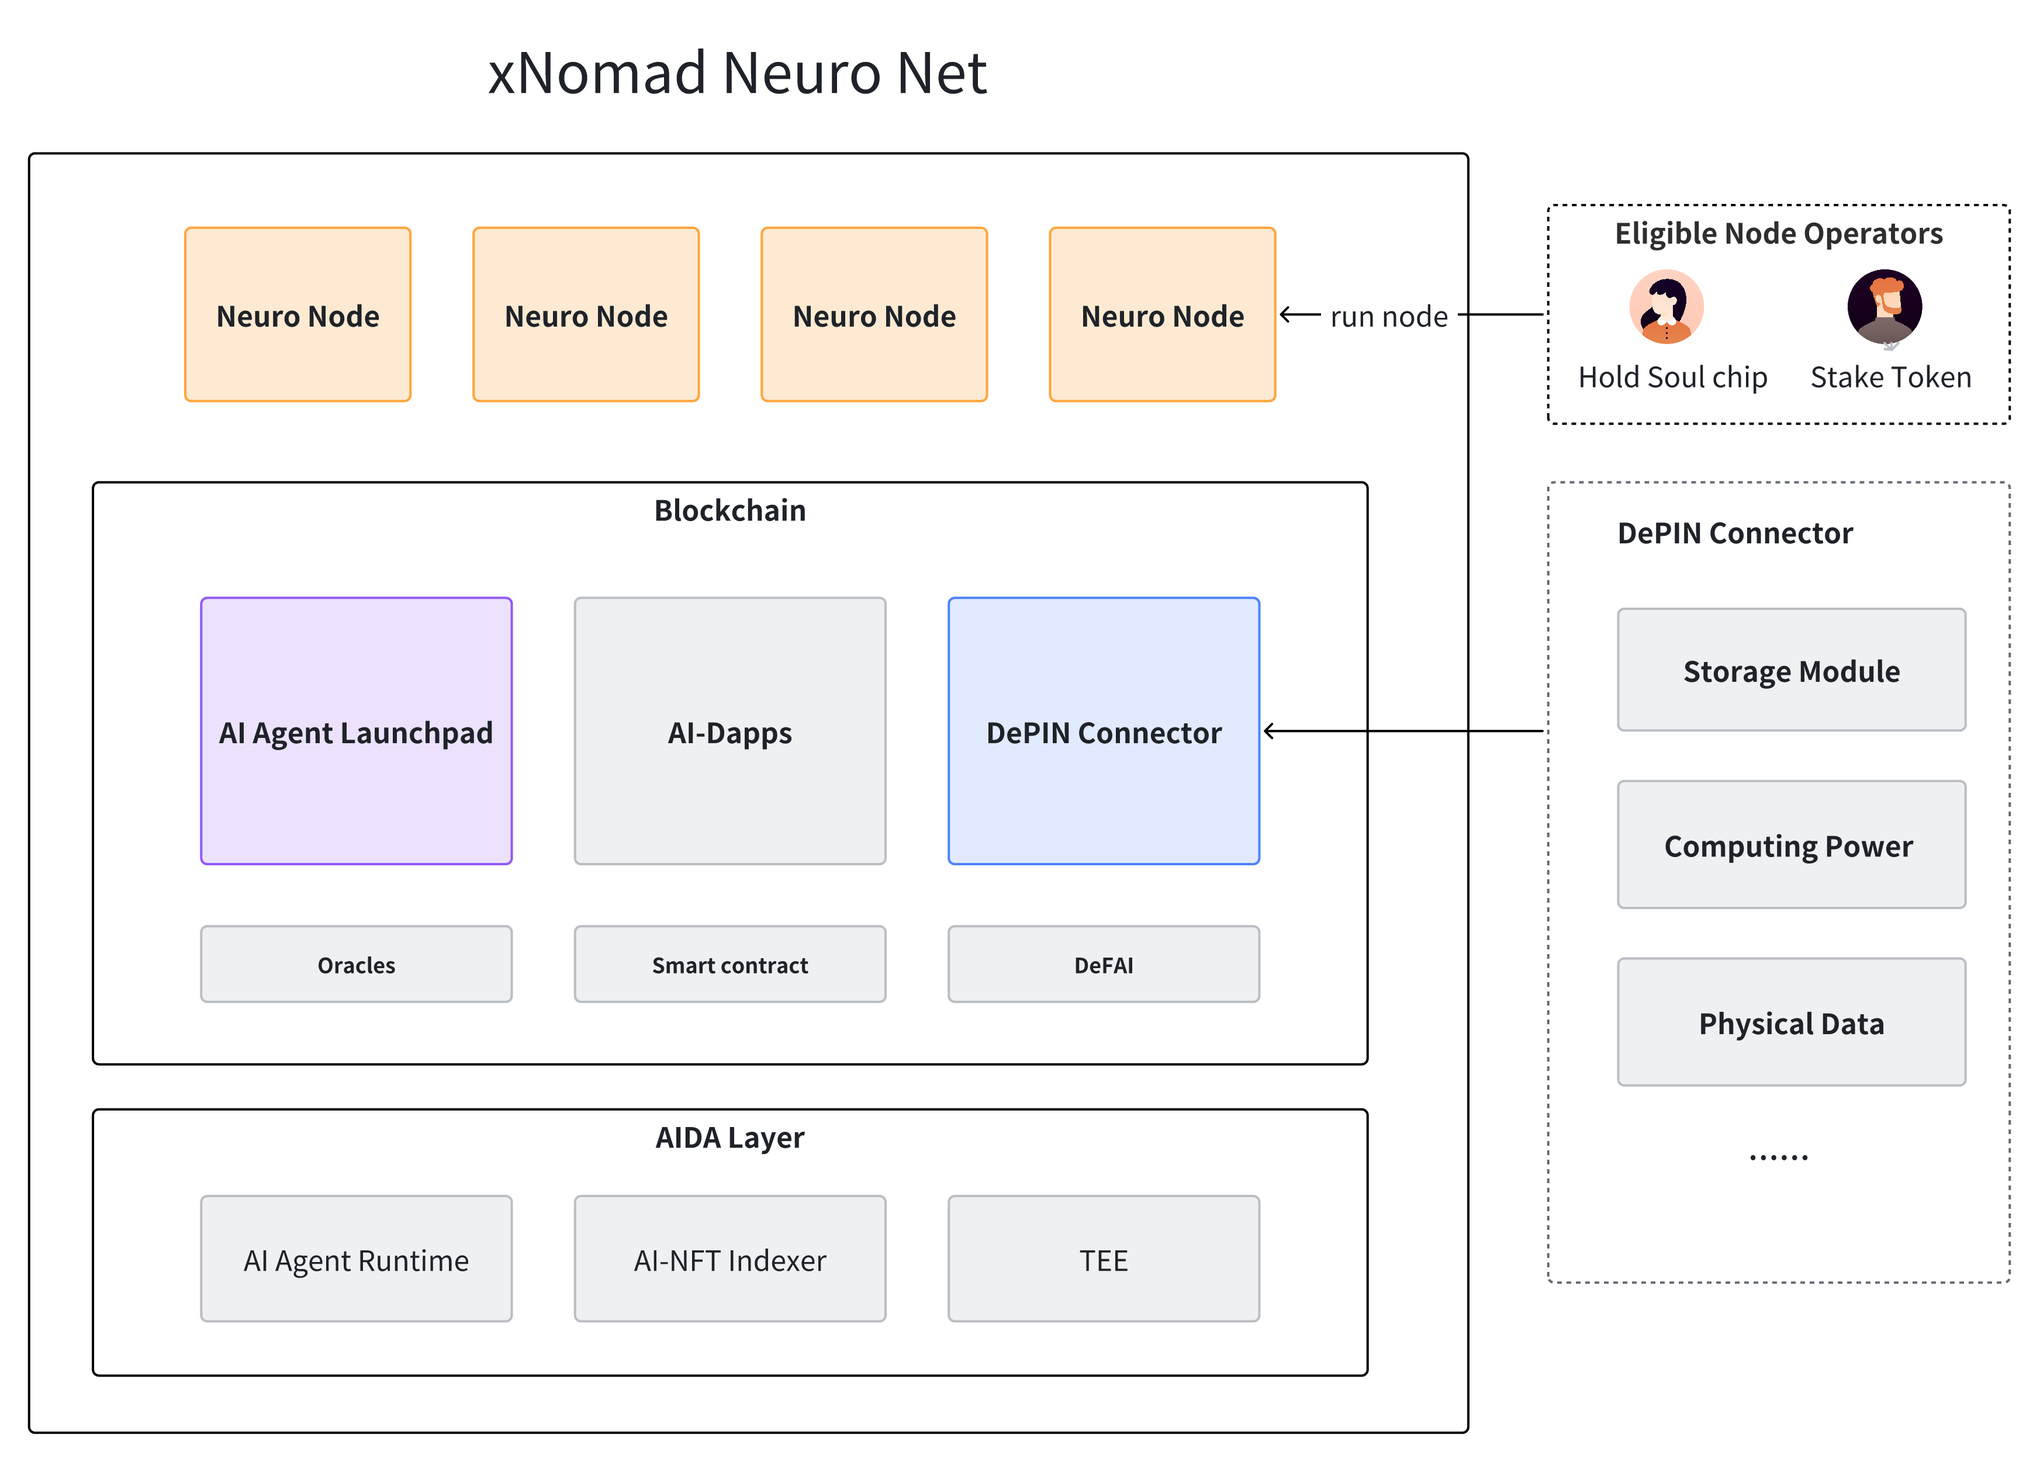
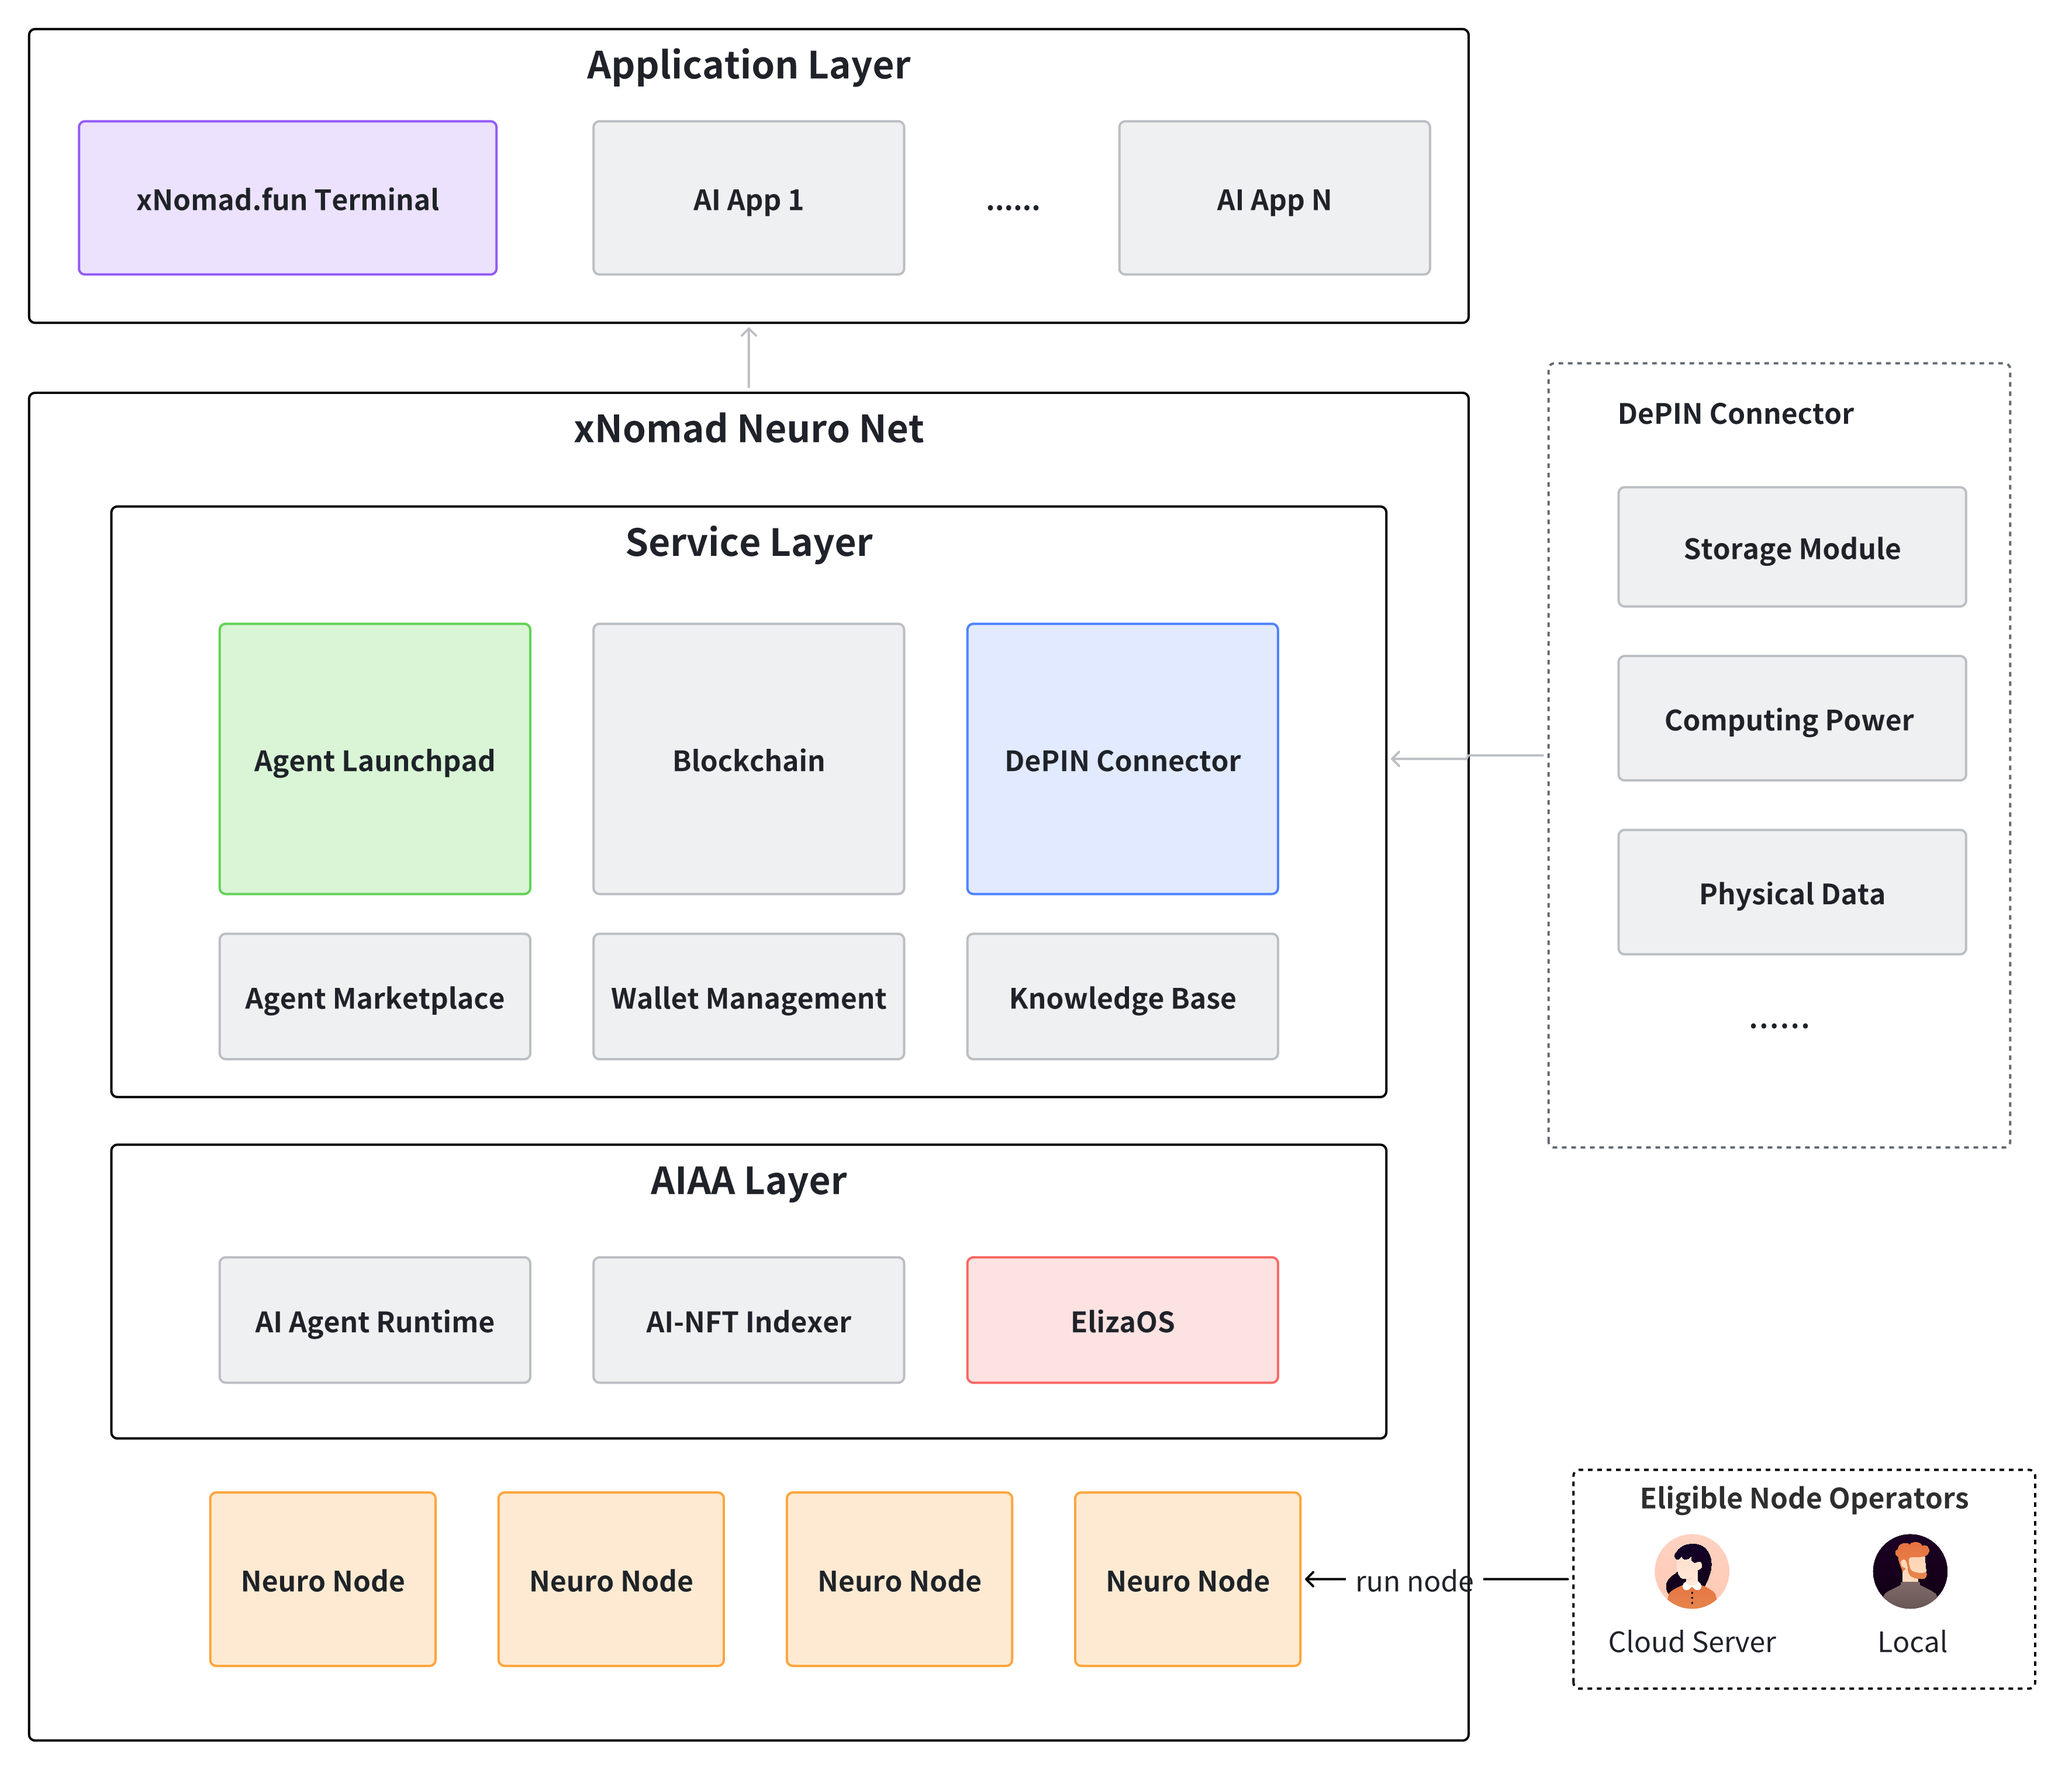
GITBOOK-21: No subject

diff --git a/xnomad.fun/ai-agent-interaction-guide.md b/xnomad.fun/ai-agent-interaction-guide.md
@@ -1,0 +1,87 @@
+# AI Agent Interaction Guide
+
+### Claim Airdrop
+
+#### For xNomad NFTs:&#x20;
+
+<figure><img src="../.gitbook/assets/image (8).png" alt="" width="563"><figcaption></figcaption></figure>
+
+If you own a xNomad NFT, you can now claim your $ai16z & $ELIZA airdrop!
+
+* _How it works_: Based on the price at the time of claiming, $ai16z and $ELIZA tokens will be automatically purchased and airdropped into your AI-NFT’s wallet.
+* _Airdrop value_: 15% of your NFT’s mint cost (10% for $ai16z ,5% for $ELIZA).
+
+#### For NFTs you launched:&#x20;
+
+Currently, there are no available airdrops to claim. In the future, we will partner with more projects. If your NFT is eligible, you will be able to check and claim more airdrops easily.
+
+### Trade
+
+**Step 1:**\
+Deposit SOL into your agent’s wallet to ensure you have enough for gas fees and assets to trade. Withdrawals will be available soon.
+
+**Step 2:**\
+Use natural language to automate token swaps, set limit orders, and more. Here are some example prompts for trading with your agent:
+
+*   Buy:
+
+    Buy **\[symbol] \[CA]** with **\[amount]** SOL
+*   Sell:
+
+    Sell **\[amount] \[symbol] \[CA]** for SOL
+*   Swap:
+
+    swap **\[amount]** SOL for **\[symbol] \[CA]**
+
+    swap **\[amount]\[symbol] \[ca]** for **\[symbol] \[CA]**
+*   Set limit order:
+
+    **Create an automatic task to** buy \[symbol] \[**CA**] with \[amount] SOL **when the token price is under** $xx
+
+    **Create an automatic task to** sell \[amount]\[symbol] \[**CA**] for SOL **when the token price is above** $xx
+
+**Step 3:**\
+Wait for the transaction execution result.
+
+
+
+### Integrate with X (Twitter)
+
+#### Bind with Your Existing Twitter Account
+
+**Step1:**&#x20;
+
+Go to the "Features" page and click on "Add" under the Twitter integration section.
+
+<figure><img src="../.gitbook/assets/image.png" alt="" width="375"><figcaption></figcaption></figure>
+
+**Step2:**&#x20;
+
+Configure your integration settings.
+
+<figure><img src="../.gitbook/assets/image (1).png" alt="" width="375"><figcaption></figcaption></figure>
+
+* **Username:** Your Twitter username (e.g., xNomadAI)
+* **Password:** Your Twitter account password
+*   **2FA Secret:**&#x20;
+
+    * Enter the 16-character code (e.g., CJB7LQXME7FZJSXK).
+    * If you've enabled two-factor authentication (2FA) via the Authentication app, find and copy the 16-character code from the app.
+    * If you haven’t enabled it yet, follow the steps below to enable 2FA:
+
+    <figure><img src="../.gitbook/assets/image (4).png" alt=""><figcaption></figcaption></figure>
+
+    * You can either scan the QR code in the app or find the 16-character code manually. Make sure to use this code when enabling the Authentication app.
+
+<figure><img src="../.gitbook/assets/image (5).png" alt="" width="375"><figcaption></figcaption></figure>
+
+<figure><img src="../.gitbook/assets/image (7).png" alt="" width="375"><figcaption></figcaption></figure>
+
+
+
+* **Email:** Add the email associated with your Twitter account.
+* **Example Tweets:** Add tweets you want the agent to post. The agent will mimic your tweet style.
+
+**Step3:**&#x20;
+
+Send Tweets. Once your Twitter account is successfully bound, the agent will automatically send tweets every 20-30 minutes and reply to comments every 2 minutes.

diff --git a/xnomad.fun/create-an-ai-nft.md b/xnomad.fun/create-an-ai-nft.md
@@ -10,7 +10,7 @@ We offer two creation modes to suit your needs: **Simple Mode** and **Advanced M
 
 * #### Simple Mode
 
-<figure><img src="../.gitbook/assets/image (4).png" alt="" width="375"><figcaption></figcaption></figure>
+<figure><img src="../.gitbook/assets/image (4) (1).png" alt="" width="375"><figcaption></figcaption></figure>
 
 Perfect for beginners! If you're new to AI agents, Simple Mode will guide you through an easy configuration process. Follow these simple steps to create your AI-NFT:
 

diff --git a/technology/neuro-net/README.md b/technology/neuro-net/README.md
@@ -15,7 +15,7 @@ The vision of XNN is to become:
 
 ## Architecture
 
-<figure><img src="../../.gitbook/assets/image (3).png" alt=""><figcaption></figcaption></figure>
+<figure><img src="../../.gitbook/assets/image (3) (1).png" alt=""><figcaption></figcaption></figure>
 
 **Neuro Net** is composed of the following key modules:
 

diff --git a/SUMMARY.md b/SUMMARY.md
@@ -5,6 +5,7 @@
 * [xNomad.fun](xnomad.fun.md)
   * [AI Agent Function](xnomad.fun/ai-agent-function.md)
   * [Create an AI-NFT](xnomad.fun/create-an-ai-nft.md)
+  * [AI Agent Interaction Guide](xnomad.fun/ai-agent-interaction-guide.md)
 * [Genesis NFT](genesis-nft.md)
 * [Tokenomics](tokenomics.md)
 

diff --git a/technology/neuro-net/neuro-node.md b/technology/neuro-net/neuro-node.md
@@ -16,4 +16,4 @@ TBD
 
 ## How to Access Decentralized AI Agents?
 
-<figure><img src="../../.gitbook/assets/image (5) (1).png" alt=""><figcaption></figcaption></figure>
+<figure><img src="../../.gitbook/assets/image (5) (1) (1).png" alt=""><figcaption></figcaption></figure>

diff --git a/genesis-nft.md b/genesis-nft.md
@@ -1,5 +1,5 @@
 ---
-cover: .gitbook/assets/image (9).png
+cover: .gitbook/assets/image (9) (1).png
 coverY: 0
 layout:
   cover:
